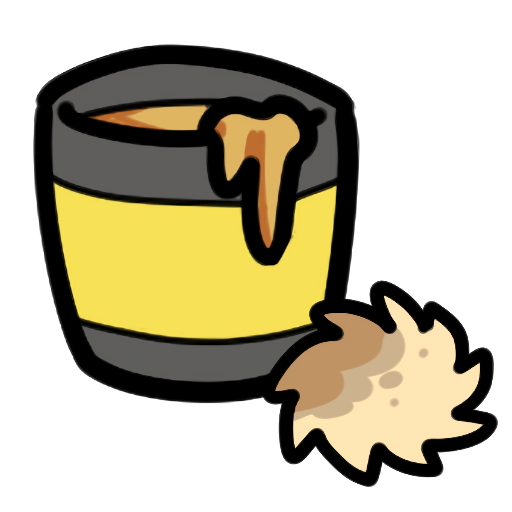
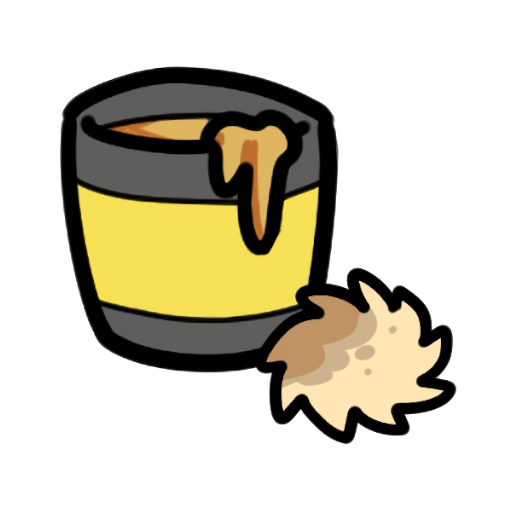
Upgrade thought bubble design

diff --git a/src/components/ThoughtBubble.ts b/src/components/ThoughtBubble.ts
@@ -1,62 +1,29 @@
 import { GameScene } from "@/scenes/GameScene";
-import { StationType, StationTypeData } from "./StationData";
+import { StationSymbol, StationType, StationTypeData } from "./StationData";
 
 export class ThoughtBubble extends Phaser.GameObjects.Container {
 	private background: Phaser.GameObjects.Image;
 	private image: Phaser.GameObjects.Image;
-	private symbol: Phaser.GameObjects.Image;
 
-	constructor(scene: GameScene, x: number, y: number, size: number) {
+	constructor(scene: GameScene, x: number, y: number) {
 		super(scene, x, y);
 		scene.add.existing(this);
 		this.scene = scene;
 
 		this.background = this.scene.add.sprite(0, 0, "bubble");
 		this.background.setScale(0.5);
-		this.background.setVisible(false);
 		this.add(this.background);
 
-		this.image = this.scene.add.image(0, -0.02*size, "blanksq");
-		this.image.setVisible(false);
-		this.image.setScale(0.1);
+		this.image = this.scene.add.image(0, -4, "blanksq");
 		this.add(this.image);
 
-		this.symbol = this.scene.add.image(0, -0.02 * size, "exclamation");
-		this.symbol.setScale(70 / this.symbol.width);
-		this.symbol.setVisible(false);
-		this.add(this.symbol);
+		this.setVisible(false);
 	}
 
-	hide() {
-		this.background.setVisible(false);
-		this.image.setVisible(false);
-		this.symbol.setVisible(false);
-	}
-
-	setRequest(type: StationType | null) {
-		this.background.setVisible(type !== null);
-		this.image.setVisible(type !== null);
-		this.symbol.setVisible(false);
-
-		if (type !== null) {
-			switch(StationTypeData[type].color) {
-				case 0xff0000: {
-					this.image.setTexture("nail");
-					break;
-				} case 0xffff00: {
-					this.image.setTexture("wax");
-					break;
-				} case 0x0000ff: {
-					this.image.setTexture("bath");
-					break;
-				}
-			}
-			//this.image.fillColor = StationTypeData[type].color;
-		}
-
-		if (type === StationType.CashRegister) {
-			this.showSymbol("money");
-		}
+	setRequest(symbolKey: StationSymbol) {
+		this.setVisible(true);
+		this.image.setTexture(symbolKey);
+		this.image.setScale(70 / this.image.width);
 	}
 
 	showSymbol(
@@ -75,10 +42,8 @@ export class ThoughtBubble extends Phaser.GameObjects.Container {
 			| "h5"
 			| "h6"
 	) {
-		this.background.setVisible(true);
-		this.image.setVisible(false);
-		this.symbol.setVisible(true);
-
-		this.symbol.setTexture(key);
+		this.setVisible(true);
+		this.image.setTexture(key);
+		this.image.setScale(70 / this.image.width);
 	}
 }

diff --git a/src/components/Customer.ts b/src/components/Customer.ts
@@ -5,7 +5,7 @@ import { Employee } from "./Employee";
 import { Timer } from "./Timer";
 import { interpolateColor } from "@/utils/functions";
 import { ThoughtBubble } from "./ThoughtBubble";
-import { StationType } from "./StationData";
+import { StationType, StationTypeData } from "./StationData";
 import { CustomerData, CustomerId } from "./CustomerData";
 import { Effect } from "./Effect";
 import { TextEffect } from "./TextEffect";
@@ -113,7 +113,7 @@ export class Customer extends Button {
 		this.spriteCont = this.scene.add.container(0, this.spriteOffset);
 		this.add(this.spriteCont);
 
-		this.sprite = this.scene.add.sprite(0, 0, (this.spriteKeys.sit));
+		this.sprite = this.scene.add.sprite(0, 0, this.spriteKeys.sit);
 		this.sprite.setOrigin(0.5, 1.0);
 		this.sprite.setScale(this.spriteSize / this.sprite.width);
 		this.spriteCont.add(this.sprite);
@@ -157,8 +157,7 @@ export class Customer extends Button {
 		this.thoughtBubble = new ThoughtBubble(
 			scene,
 			0.4 * cellSize,
-			-0.6 * cellSize,
-			cellSize
+			-0.6 * cellSize
 		);
 		this.add(this.thoughtBubble);
 
@@ -189,7 +188,7 @@ export class Customer extends Button {
 		this.setScale(1.0, squish - 0.2 * this.holdSmooth);
 
 		this.sprite.setTint(
-			interpolateColor(0xff0000, 0xFFFFFF, 2 * this.patience)
+			interpolateColor(0xff0000, 0xffffff, 2 * this.patience)
 		);
 
 		if (this.isWaiting) {
@@ -283,7 +282,6 @@ export class Customer extends Button {
 		super.onOver(pointer, localX, localY, event);
 		this.toggleTimer();
 	}
-
 
 	onOut(pointer: Phaser.Input.Pointer, event: Phaser.Types.Input.EventData) {
 		super.onOut(pointer, event);
@@ -428,15 +426,14 @@ export class Customer extends Button {
 
 	setAction(temp: boolean) {
 		this.doingCuteThing = temp;
-		//this.thoughtBubble.hide();
 	}
 
 	setRequest(type: StationType | null) {
 		if (type !== null) {
 			this.requestedStation = type;
-			this.thoughtBubble.setRequest(type);
+			this.thoughtBubble.setRequest(StationTypeData[type].symbolKey);
 		} else {
-			this.thoughtBubble.setRequest(null);
+			this.thoughtBubble.setVisible(false);
 		}
 	}
 
@@ -680,13 +677,9 @@ export class Customer extends Button {
 		}
 	}
 
-	getColorTags(){
+	getColorTags() {}
 
-	}
-
-	getColorAntiTags(){
-
-	}
+	getColorAntiTags() {}
 
 	/* Getters */
 
